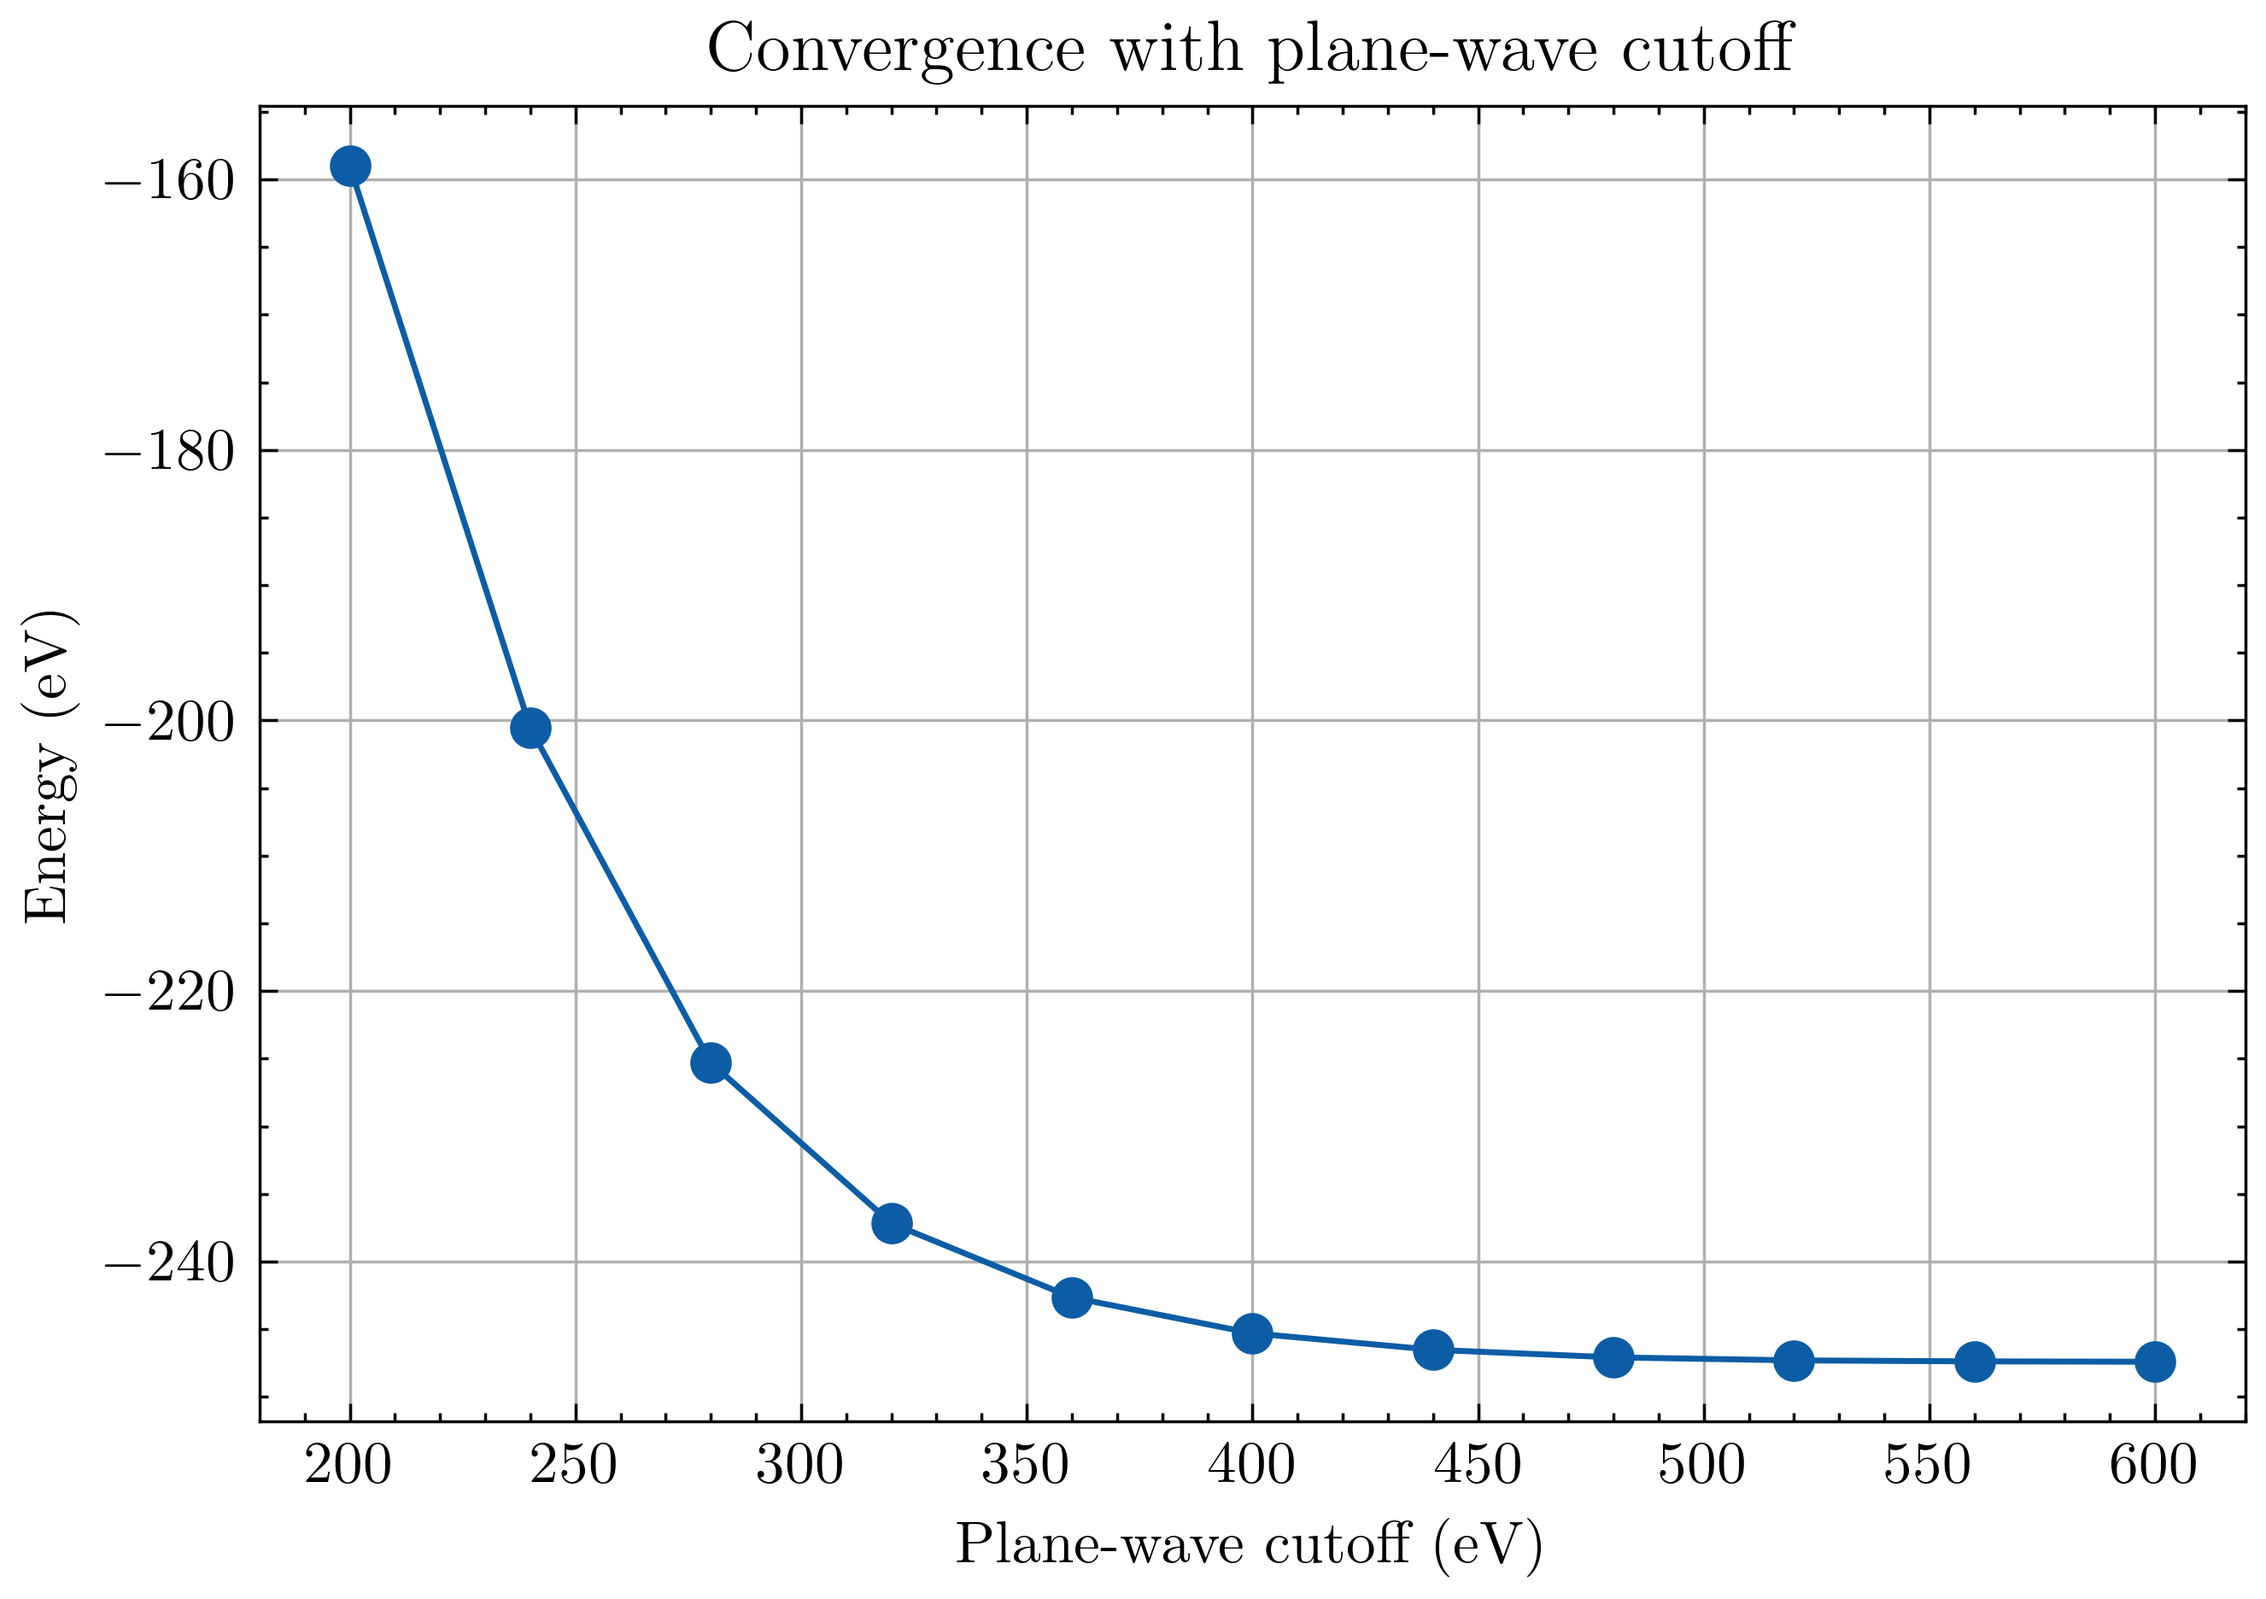
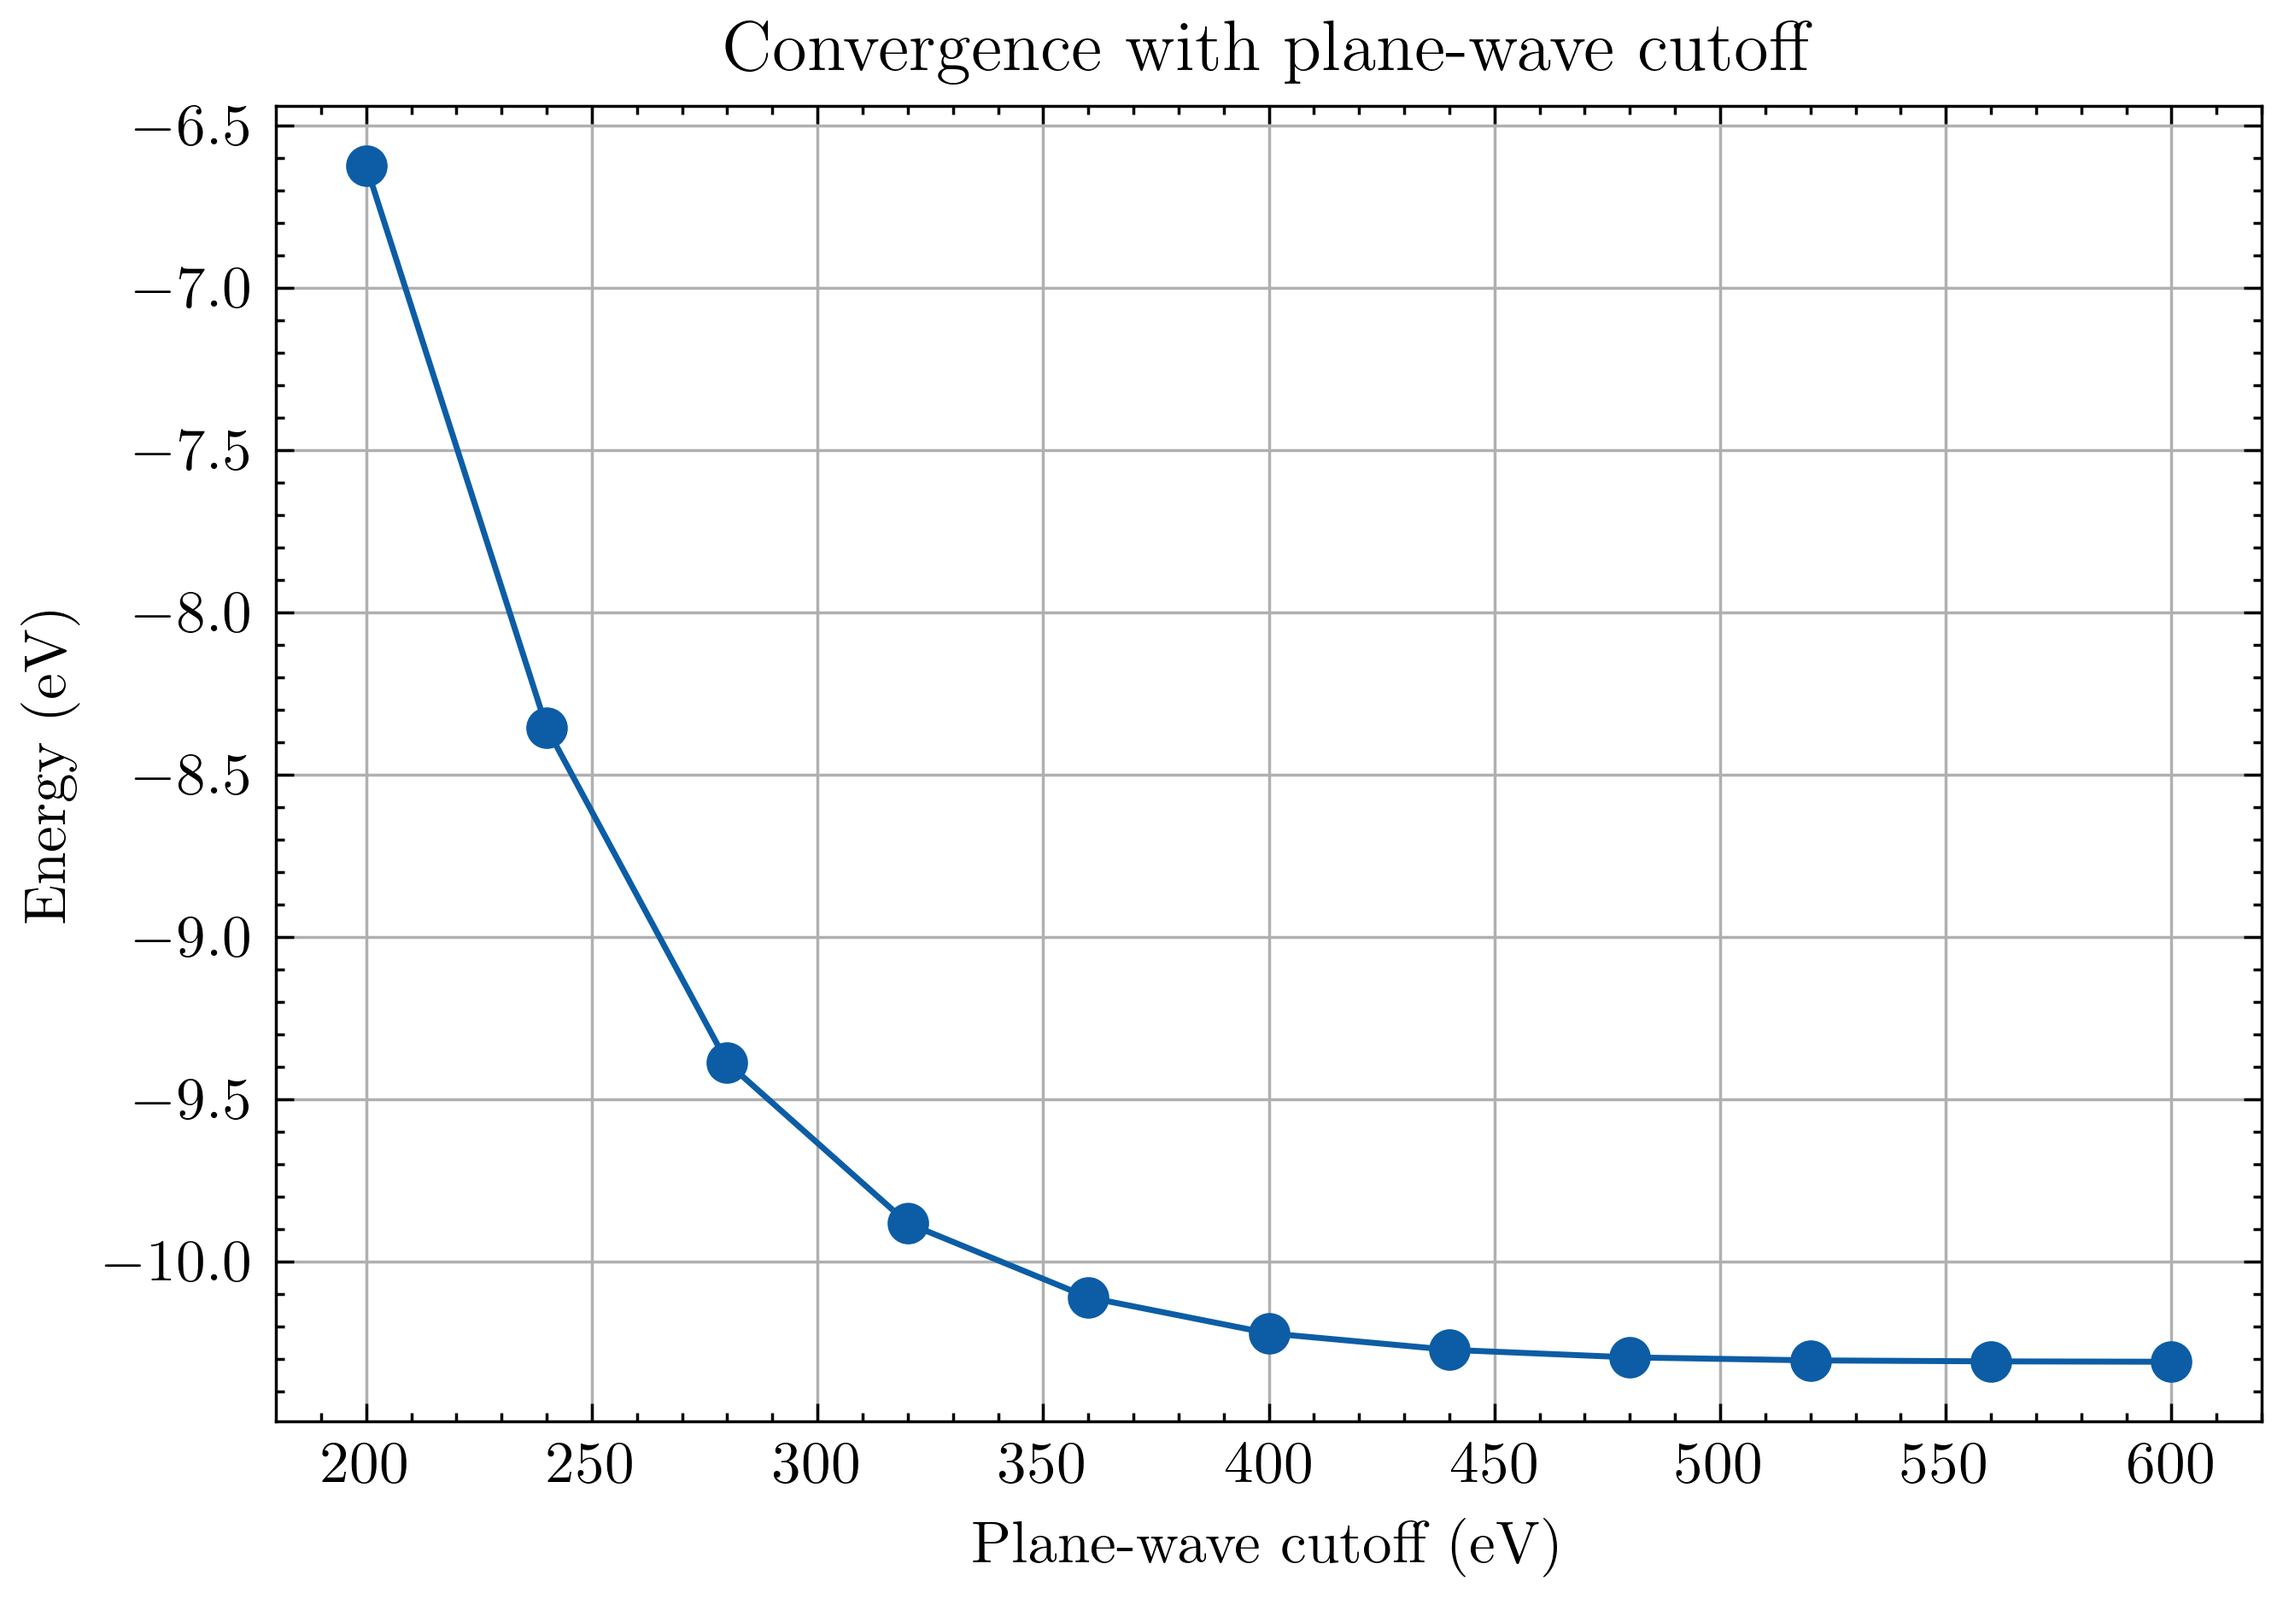
More minor plotting changes

diff --git a/Convergence/convergence_plotting.py b/Convergence/convergence_plotting.py
@@ -8,20 +8,19 @@ plt.rcParams['axes.grid'] = True
 folder = "plots/"
 
 k = [1, 2, 3, 4, 5, 6, 7, 8, 9, 10]
-e_k = [-240.0759277,  -241.8743619,  -241.64488299, -241.71911204,
-       -241.67442637, -241.67953907, -241.67666885, -241.67971234,
-       -241.68729495, -241.68191597]
+e_k = [-10.00316365, -10.07809841, -10.06853679, -10.07162967,
+       -10.06976777, -10.06998079, -10.0698612,  -10.06998801,
+       -10.07030396, -10.07007983]
 
 cut = [200, 240, 280, 320, 360, 400, 440, 480, 520, 560, 600]
-e_cut = [-159.00610238, -200.54824502, -225.30045204, -237.17156331,
-         -242.64817817, -245.30179695, -246.52173962, -247.08038294,
-         -247.30375903, -247.37695552, -247.40516961]
+e_cut = [-6.62525427, -8.35617688, -9.38751883, -9.88214847,
+         -10.11034076, -10.22090821, -10.27173915, -10.29501596, -10.30432329,
+         -10.30737315, -10.30854873]
 
 vac = [1, 2, 3, 4, 5, 6, 7, 8, 9, 10, 11, 12, 13, 14]
-e_vac = [-162.73828827, -235.26808402, -241.42616613, -241.69990325,
-         -241.67971234, -241.66486494, -241.64732009, -241.70462784,
-         -241.68790778, -241.67591599, -241.69260739, -241.66088671,
-         -241.67664887, -241.64872833]
+e_vac = [-9.80283683, -10.05942359, -10.0708293, -10.06998801,
+         -10.06936937, -10.06863834, -10.07102616, -10.07032949, -10.06982983,
+         -10.07052531, -10.06920361, -10.06986037, -10.06869701]
 
 
 fig_k, ax_k = plt.subplots()
@@ -30,7 +29,7 @@ ax_k.plot(range(1, 11), e_k, 'o-')
 ax_k.set_xlabel('k-points')
 ax_k.set_ylabel('Energy (eV)')
 ax_k.set_title('Convergence with k-points')
-fig_k.savefig(folder + 'AGNR_S_3_1_k_conv.png', dpi=500)
+fig_k.savefig('../' + folder + 'AGNR_S_3_1_k_conv.png', dpi=500)
 
 fig_cut, ax_cut = plt.subplots()
 fig_cut.set_size_inches(6, 4)
@@ -38,12 +37,12 @@ ax_cut.plot(range(200, 601, 40), e_cut, 'o-')
 ax_cut.set_xlabel('Plane-wave cutoff (eV)')
 ax_cut.set_ylabel('Energy (eV)')
 ax_cut.set_title('Convergence with plane-wave cutoff')
-fig_cut.savefig(folder + 'AGNR_S_3_1_cut_conv.png', dpi=500)
+fig_cut.savefig('../' + folder + 'AGNR_S_3_1_cut_conv.png', dpi=500)
 
 fig_vac, ax_vac = plt.subplots()
 fig_vac.set_size_inches(6, 4)
-ax_vac.plot(range(1, 15), e_vac, 'o-')
+ax_vac.plot(range(2, 15), e_vac, 'o-')
 ax_vac.set_xlabel('Vacuum (Å)')
 ax_vac.set_ylabel('Energy (eV)')
 ax_vac.set_title('Convergence with vacuum')
-fig_vac.savefig(folder + 'AGNR_S_3_1_vac_conv.png', dpi=500)
+fig_vac.savefig('../' + folder + 'AGNR_S_3_1_vac_conv.png', dpi=500)

diff --git a/Convergence/convergence.py b/Convergence/convergence.py
@@ -62,5 +62,5 @@ parprint("k-points 1 to 10")
 parprint(energy_k)
 parprint("Plane-wave cutoff 200 to 600 in steps of 40")
 parprint(energy_cut)
-parprint("Vacuum 1Å to 10Å")
+parprint("Vacuum 2Å to 14Å")
 parprint(energy_vac)
